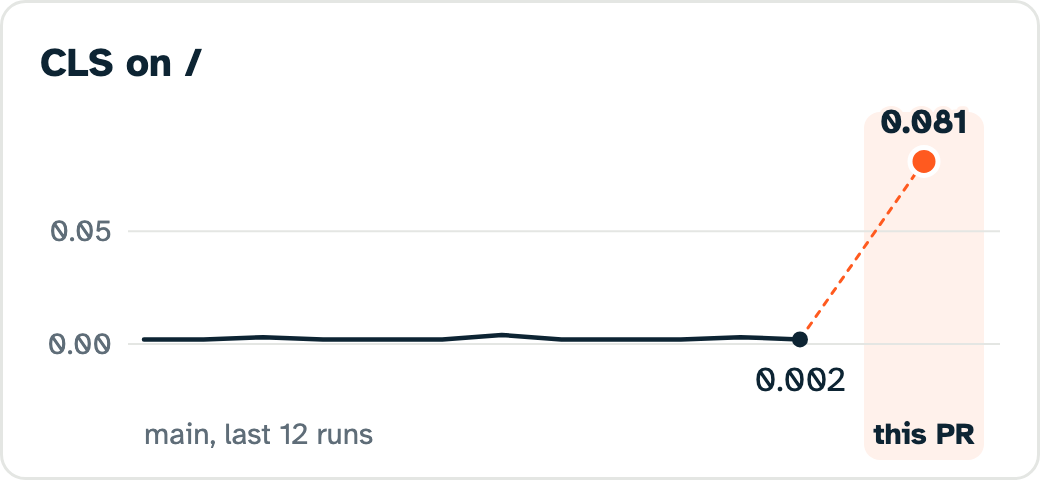
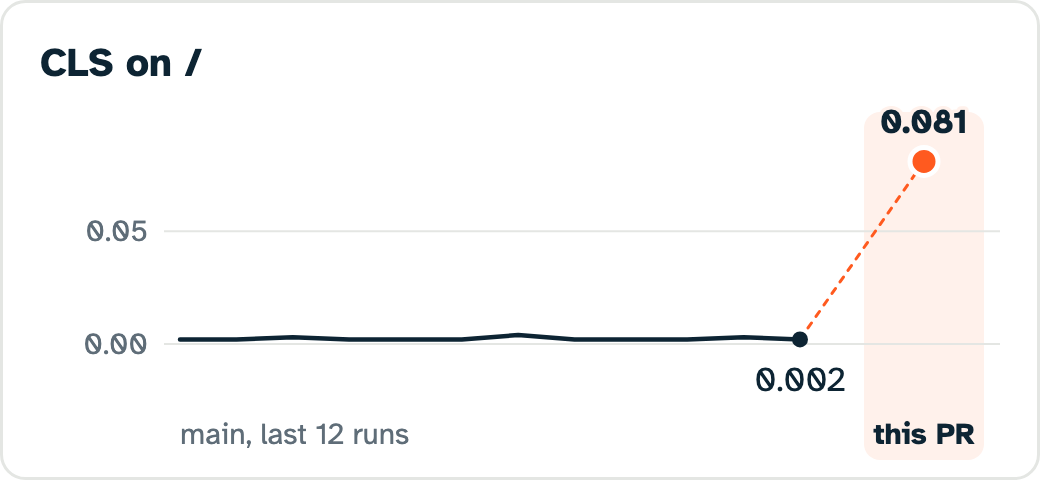
Chart: tick labels clear the card edge, two to four gridlines always
Gridlines start at x 82 (was 64) so the widest label, 800 ms, starts in line with the title. The step is the nice one
giving three lines, else two, else four; rounding range/3 up could leave one. References redrawn.

diff --git a/docs/chart/chart-svg.ts b/docs/chart/chart-svg.ts
@@ -32,9 +32,10 @@ export const FONT = "'Atkinson Hyperlegible', sans-serif"
 
 const PLOT_TOP = 70
 const PLOT_BOTTOM = 172
-const GRID_LEFT = 64
+// Tick labels end at GRID_LEFT - 8, so the widest (about 53 px, "800 ms") starts at x 21, in line with the title.
+const GRID_LEFT = 82
 const GRID_RIGHT = 500
-const MAIN_LEFT = 72
+const MAIN_LEFT = 90
 const MAIN_RIGHT = 400
 const PR_X = 462
 const BOTTOM_LABEL_Y = 222
@@ -75,10 +76,29 @@ function value(metric: Metric, v: number): string {
 	return v >= 1000 ? `${(v / 1000).toFixed(2)} s` : `${Math.round(v)} ms`
 }
 
-function niceStep(raw: number): number {
-	const power = 10 ** Math.floor(Math.log10(raw))
-	const steps = [1, 2, 2.5, 5, 10]
-	return (steps.find(s => s * power >= raw) ?? 10) * power
+const NICE = [1, 2, 2.5, 5]
+// Gridline counts by preference: three, then two, then four.
+const LINES_RANK: Record<number, number> = { 3: 0, 2: 1, 4: 2 }
+
+function ticksFor(lo: number, hi: number, step: number): number[] {
+	const ticks: number[] = []
+	for (let t = Math.ceil(lo / step - 1e-9) * step; t <= hi + 1e-9; t += step) ticks.push(Number(t.toPrecision(10)))
+	return ticks
+}
+
+// The nice step (1, 2, 2.5 or 5 x 10^n) giving two to four gridlines, three when it can; the larger step on a tie.
+export function niceStep(lo: number, hi: number): number {
+	const power = Math.floor(Math.log10(hi - lo))
+	let best = { step: 10 ** power, rank: Number.POSITIVE_INFINITY }
+	for (const exp of [power - 1, power]) {
+		for (const s of NICE) {
+			const step = s * 10 ** exp
+			if ((hi - lo) / step > 5) continue
+			const rank = LINES_RANK[ticksFor(lo, hi, step).length] ?? Number.POSITIVE_INFINITY
+			if (rank < best.rank || (rank === best.rank && step > best.step)) best = { step, rank }
+		}
+	}
+	return best.step
 }
 
 const decimals = (x: number): number => {
@@ -109,10 +129,8 @@ export function yScale(metric: Metric, values: number[], typical: number): Scale
 	const pad = span * 0.12
 	lo = Math.max(0, lo - pad)
 	const hi = hi0 + pad
-	const step = niceStep((hi - lo) / 3)
-	const ticks: number[] = []
-	for (let t = Math.ceil(lo / step) * step; t <= hi + 1e-9; t += step) ticks.push(Number(t.toPrecision(10)))
-	return { lo, hi, ticks, step }
+	const step = niceStep(lo, hi)
+	return { lo, hi, ticks: ticksFor(lo, hi, step), step }
 }
 
 const esc = (s: string): string => s.replaceAll('&', '&amp;').replaceAll('<', '&lt;').replaceAll('>', '&gt;').replaceAll('"', '&quot;')

diff --git a/test/chart-svg.test.ts b/test/chart-svg.test.ts
@@ -1,5 +1,5 @@
 import { describe, expect, it } from 'vitest'
-import { parseChartQuery, renderChartSvg } from '../docs/chart/chart-svg'
+import { parseChartQuery, renderChartSvg, yScale } from '../docs/chart/chart-svg'
 import { chartUrl } from '../src/chart'
 
 const query = (url: string | null): URLSearchParams => new URL(url ?? 'https://x.invalid').searchParams
@@ -19,6 +19,25 @@ describe('reference chart renderer', () => {
 		expect(parseChartQuery(new URLSearchParams('v=1&m=LCP&s=1.2.-3'))).toBe('bad point')
 		expect(parseChartQuery(new URLSearchParams('v=1&m=LCP&s=1.2.3&c=x'))).toBe('bad current value')
 		expect(parseChartQuery(new URLSearchParams(`v=1&m=LCP&s=${Array(31).fill(1).join('.')}`))).toBe('too many points')
+	})
+
+	it('always draws two to four gridlines, three where a nice step allows', () => {
+		const counts = new Map<number, number>()
+		const bad: string[] = []
+		for (const metric of ['LCP', 'TBT', 'Server', 'INP', 'CLS'] as const) {
+			for (let i = 0; i < 400; i++) {
+				const scale = metric === 'CLS' ? 0.001 : 1
+				const base = (50 + ((i * 7919) % 6000)) * scale
+				const spread = (1 + ((i * 104729) % 900)) * scale
+				const values = [base, base + spread * 0.3, base + spread]
+				const { ticks, lo, hi } = yScale(metric, values, base)
+				const inside = ticks.every(t => t >= lo - 1e-9 && t <= hi + 1e-9)
+				if (ticks.length < 2 || ticks.length > 4 || !inside) bad.push(`${metric} ${values.join(',')}: ${ticks.join(',')}`)
+				counts.set(ticks.length, (counts.get(ticks.length) ?? 0) + 1)
+			}
+		}
+		expect(bad).toEqual([])
+		expect(counts.get(3) ?? 0).toBeGreaterThan(1000)
 	})
 
 	it('draws every case without NaN and escapes the page', () => {

diff --git a/docs/chart-spec.md b/docs/chart-spec.md
@@ -23,9 +23,9 @@ it as is and add only the rasteriser.
   bridged by a faint dotted line, so it reads as missing data rather than a glitch.
 - **This PR as one orange dot** in its own tinted column to the right, joined to main's latest point by a dashed orange
   line. The step from the line to the dot is the whole story; the y labels give the scale.
-- **Where the comment puts it:** under the `diff` summary, one chart per page with a significant change (its first flagged
-  metric, regressions first), three at most. A quiet run gets one LCP chart on the first page, inside the folded table, so the
-  comment stays short.
+- **Where the comment puts it:** first inside the fold (open whenever something changed), one chart per page with a
+  significant change (its first flagged metric, regressions first), three at most. A quiet run has no chart: there is no
+  step to show, and a notification email shows the fold's content anyway.
 - **No health bands.** Google's good / needs improvement / poor thresholds (LCP 2.5 s and 4 s) are defined on real-user p75
   field data. This is a median of throttled lab loads on Slow 4G with a 4x slower CPU, which runs well above typical field
   values. A band would call most pages "poor" for reasons unrelated to the PR and pull the eye from the one question the chart
@@ -83,10 +83,10 @@ Text never uses `dominant-baseline` (resvg support is partial); baselines are ex
 | Text                     | Position                         | Size, weight, colour       |
 | ------------------------ | -------------------------------- | -------------------------- |
 | "LCP on /pricing"        | x 20, baseline 38                | 20, 700, ink               |
-| Tick labels              | right-aligned at x 56, tick y + 5 | 15, 400, muted             |
+| Tick labels              | right-aligned at x 74, tick y + 5 | 15, 400, muted             |
 | main's latest value      | centred on its point, 14 above or 26 below | 17, 400, ink, 4 px card halo |
 | This PR's value          | centred on the dot, opposite side to main's label | 17, 700, ink, 4 px band halo |
-| "main, last 20 runs"     | x 72, baseline 222               | 15, 400, muted             |
+| "main, last 20 runs"     | x 90, baseline 222               | 15, 400, muted             |
 | "this PR"                | centred x 462, baseline 222      | 15, 700, ink               |
 
 The PR label goes above its dot when the PR is at or above main's latest value, main's label below its point, and the other
@@ -95,14 +95,17 @@ below, CLS to three decimals.
 
 **Geometry.**
 
-- Plot area y 70 (top) to 172 (bottom). Gridlines from x 64 to 500.
-- main's points evenly spaced from x 72 to 400; line 2.25 px, round joins and caps; latest point a dot r 4.
+- Plot area y 70 (top) to 172 (bottom). Gridlines from x 82 to 500. The widest tick label (`800 ms`, about 53 px) then
+  starts near x 21, in line with the title, instead of touching the card's edge.
+- main's points evenly spaced from x 90 to 400; line 2.25 px, round joins and caps; latest point a dot r 4.
 - This PR at x 462: column 60 wide, from y 56 to 230, radius 8, `band` fill. Dot r 7, `accent` fill, 2.5 px white stroke.
   Connector from main's latest point, 1.5 px, dash 3 4.
 
 **Y scale.** Domain covers main's values and this PR's. Its span is at least the larger of a per-metric minimum (LCP and FCP
 200 ms, TTFB, Server and TBT 100 ms, INP 50 ms, CLS 0.05) and 20% of main's median, so run-to-run noise draws as a wobble instead of a
-cliff; then 12% padding each side, floored at 0. Gridlines at a nice step (1, 2, 2.5 or 5 x 10^n) giving two to four lines.
+cliff; then 12% padding each side, floored at 0. Gridlines at the nice step (1, 2, 2.5 or 5 x 10^n) that gives three lines,
+else two, else four, never one or five (the larger step on a tie). Dividing the range by three and rounding up, as v1 first
+did, could leave a single line.
 Tick labels in seconds once any tick reaches 1000 ms, with as many decimals as the step needs (`2.5 s`, `2.25 s`).
 
 ## Serving
